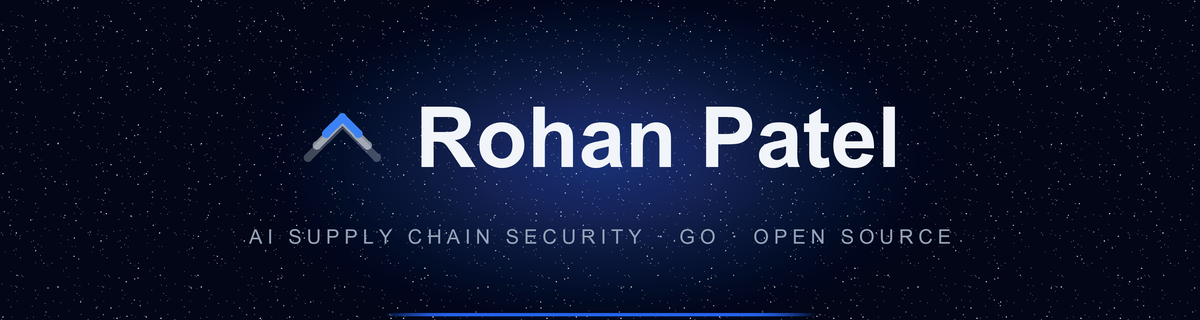
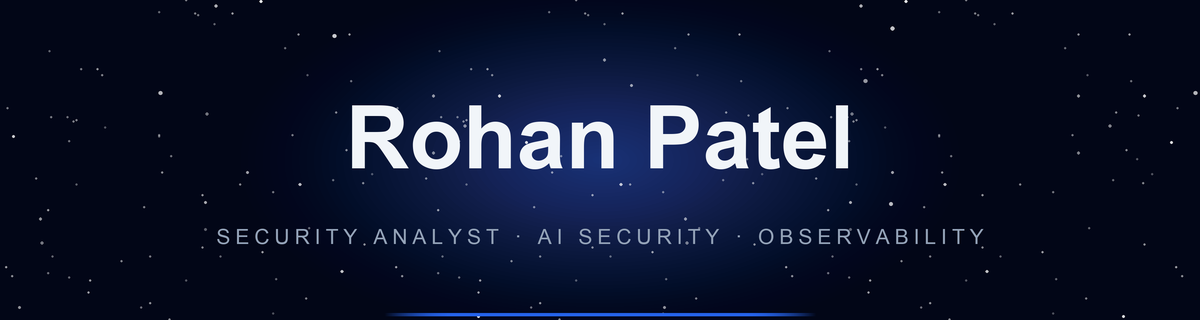
profile: correct the star density, drop the product mark, restore the lines
Three fixes, one of them a real bug.

The banner had three times the site's star density, and not by choice: star
coordinates and tile pitches are in CSS pixels while the canvas is drawn at
3x, and I was placing them unscaled. A 1200px-wide banner was showing 13.8
repeats of the 260px tile where the page shows 4.6. Scaled by SS, then spread
1.5x on top — at 320px tall the page's own density still reads as snow rather
than sky, because the same stars-per-area lands in a third of the height.

Dropped the AIROM chevron from this banner. It is a person's name, not the
project's lockup, and the product mark beside it read as branding rather than
identity. The mark stays where it belongs: the social card and the avatar.

Restored the typing lines. I removed them earlier believing GitHub would not
render them; that was wrong, and checking a profile that uses them would have
shown it. They are SMIL animations, which camo does run — unlike the CSS
keyframes that were actually hiding the old banner text.

Subtitle is now Security Analyst · AI Security · Observability.

Changed region(s): [[0.2467, 0.3125, 0.7708, 0.5312], [0.1542, 0.6875, 0.8325, 0.7812], [0.9867, 0.2812, 1.0, 0.3125]]

diff --git a/README.md b/README.md
@@ -1,9 +1,8 @@
 <div align="center">
 
-<img src="assets/banner.png" width="100%" alt="Rohan Patel — AI supply chain security · Go · Open source" />
+<img src="assets/banner.png" width="100%" alt="Rohan Patel — Security Analyst · AI Security · Observability" />
 
-**I build security tooling for the AI supply chain.**
-Creator of [AIROM](https://github.com/airomhq/airom), an open-source AIBOM scanner where every finding carries the `file:line` it came from.
+<img src="https://readme-typing-svg.demolab.com?font=Inter&weight=500&size=19&duration=3600&pause=1200&color=3B82F6&center=true&vCenter=true&width=720&lines=I+build+security+tooling+for+the+AI+supply+chain.;Creator+of+AIROM%2C+an+open-source+AIBOM+scanner.;Every+finding+carries+the+file%3Aline+it+came+from." alt="I build security tooling for the AI supply chain." />
 
 <a href="https://airom.dev"><img src="https://img.shields.io/badge/airom.dev-020617?style=for-the-badge&logo=googlechrome&logoColor=white" /></a>
 <a href="https://www.linkedin.com/in/rohanpatel8727/"><img src="https://img.shields.io/badge/LinkedIn-1E3A8A?style=for-the-badge&logo=linkedin&logoColor=white" /></a>
